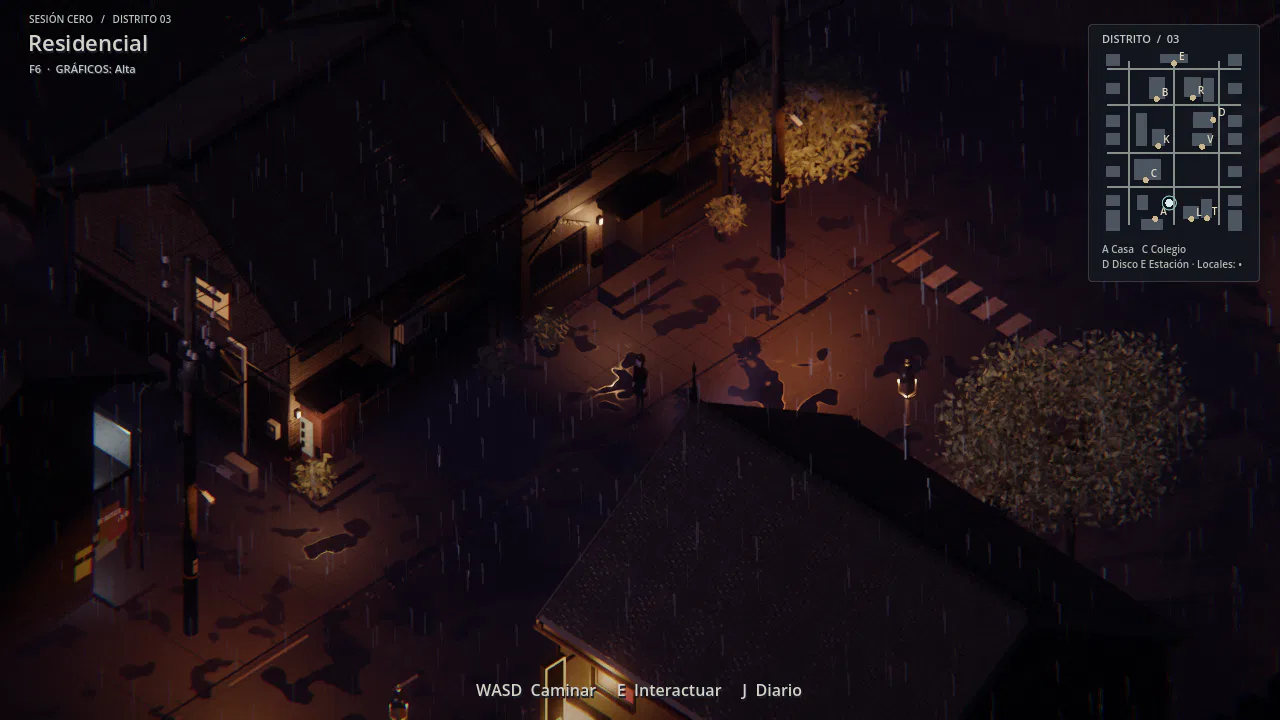
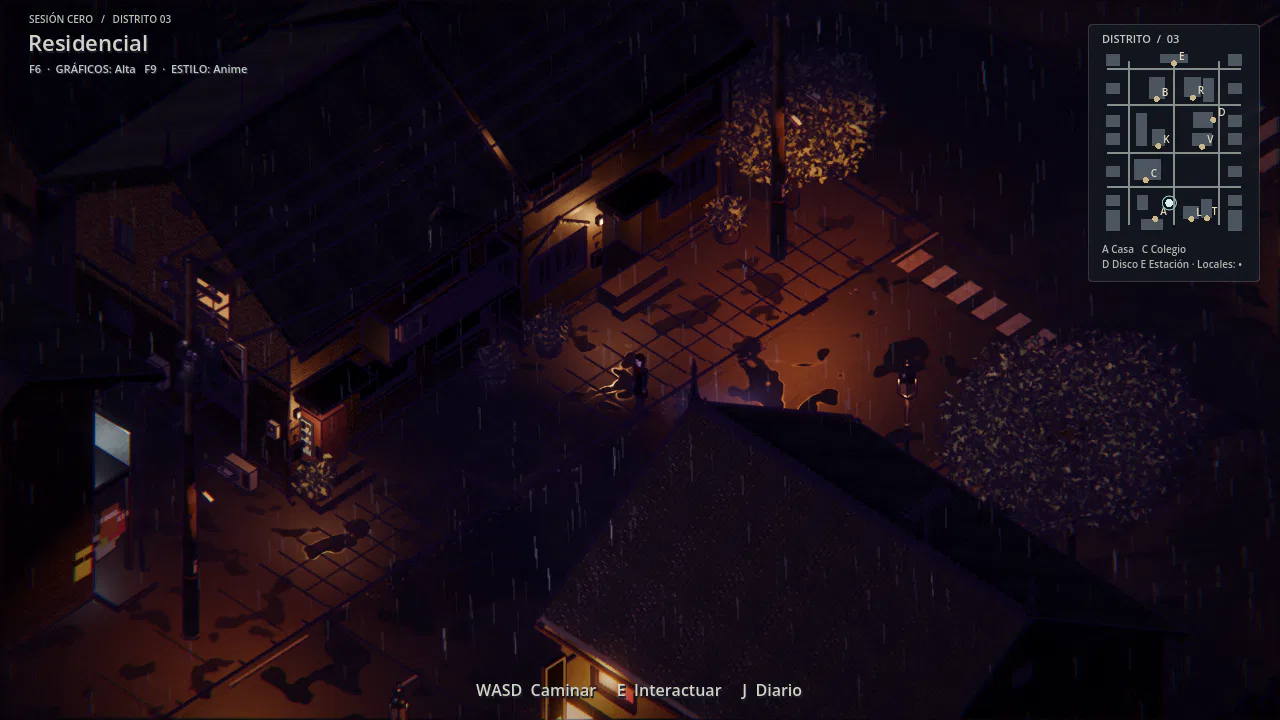
feat(site): the download page shows the game as it looks now
New captures in the anime look: a conversation with Ryoko in the visual-novel window,
a café floating over the Indara net, the arcade, the district, home with the guide and
the terminal. The izakaya goes (it looked like the café).

The texts in them are real: tools/landing_inputs.py plays the start of the prologue in
a throwaway world with the server's own code and writes the oscilloscope screen and
Ryoko's first reply that capture_landing.gd shows.

diff --git a/deploy/vps/web/index.html b/deploy/vps/web/index.html
@@ -76,20 +76,27 @@
         <figcaption>El terminal es el corazón del juego. Aquí, la Capa 01: leer con un osciloscopio la señal de un cable
           cortado. Cada capa enseña una parte de cómo funciona una red de verdad.</figcaption>
       </figure>
+      <figure class="wide">
+        <img src="/img/ryoko.webp" width="1280" height="720" loading="lazy"
+             alt="Una conversación con Ryoko en el club: su retrato anime a la izquierda, lo que dice abajo y las respuestas a la derecha.">
+        <figcaption>Las conversaciones, como en una novela visual: cada personaje con su cara y su forma de hablar. Los
+          vecinos contestan con sus propias palabras y recuerdan lo que les cuentas.</figcaption>
+      </figure>
+      <figure>
+        <img src="/img/red-indara.webp" width="1280" height="720" loading="lazy"
+             alt="Un café flotando en la oscuridad sobre una red de hilos de luz, con joyas brillantes y un pulso rosa que llega por un hilo.">
+        <figcaption>Fuera de cada edificio, la red de Indara: cada joya es otra zona de la ciudad y brilla si hay
+          gente; cada pulso es alguien que habla o que llega.</figcaption>
+      </figure>
       <figure>
         <img src="/img/barrio-noche.webp" width="1280" height="720" loading="lazy"
              alt="Una calle residencial de noche, bajo la lluvia, con farolas y el mapa del barrio arriba a la derecha.">
-        <figcaption>Un barrio que vive día y noche. Sus vecinos recuerdan lo que les cuentas.</figcaption>
+        <figcaption>Un barrio que vive día y noche, siempre encendido.</figcaption>
       </figure>
       <figure>
         <img src="/img/recreativos.webp" width="1280" height="720" loading="lazy"
-             alt="El salón de recreativos por dentro, con máquinas iluminadas y neones.">
+             alt="El salón de recreativos por dentro, con máquinas iluminadas y neones, sobre la red de Indara.">
         <figcaption>El salón de recreativos, con sus torneos y su clasificación.</figcaption>
-      </figure>
-      <figure>
-        <img src="/img/izakaya.webp" width="1280" height="720" loading="lazy"
-             alt="Una izakaya por dentro, con lámparas de papel y gente en las mesas.">
-        <figcaption>Habla con quien quieras: los personajes contestan con sus propias palabras.</figcaption>
       </figure>
       <figure>
         <img src="/img/guia.webp" width="1280" height="720" loading="lazy"

diff --git a/tools/landing_inputs.py b/tools/landing_inputs.py
@@ -1,0 +1,61 @@
+"""Real game text for the download page's captures (client/tools/capture_landing.gd).
+
+    python tools/landing_inputs.py <folder>
+
+Plays a new player through the start of the prologue in a throwaway world, with the
+server's own code and no AI, and writes:
+- session.json: the oscilloscope of Capa 01 in the school's cabinet, as the shell prints it;
+- ryoko.json: Ryoko's first reply in the club (speaker, text, mood, choices).
+"""
+import json
+import os
+import sys
+import tempfile
+from pathlib import Path
+
+ROOT = Path(__file__).resolve().parents[1]
+
+
+def main(argv=None) -> int:
+    folder = Path((argv or sys.argv[1:])[0])
+    folder.mkdir(parents=True, exist_ok=True)
+    # SQLite may still hold the throwaway world open on Windows when the folder goes.
+    with tempfile.TemporaryDirectory(ignore_cleanup_errors=True) as scratch:
+        os.environ["LAIN_WORLD_DB"] = str(Path(scratch) / "landing.db")
+        for flag in ("LAIN_LAYER_ONE", "LAIN_LAYER_THREE", "LAIN_PROLOGUE_ENABLED", "LAIN_CITY_RESIDENTS_ENABLED",
+                     "LAIN_CORPORATION"):
+            os.environ[flag] = "1"
+        os.environ["LAIN_LLM_ENABLED"] = "0"
+        sys.path.insert(0, str(ROOT))
+        from server.world_core import database, layer_one, layer_three
+        from server.world_core.prologue import submit_terminal_command, talk_to_prologue_npc
+        from server.world_core.simulation import Simulation
+        from server.world_core.wired import process_wired_message_acknowledgement
+        from tests.test_chapter_one import move  # the same walk through the city as the tests
+        from tests.test_layer_three import PLAYER
+
+        database.initialize_database()
+        sim = Simulation()
+        move(sim, "SCHOOL_LAB")
+        talk_to_prologue_npc(PLAYER, "PROFESSOR", sim.minute, "ASK_STUDENT")
+        move(sim, "NIGHTCLUB")
+        ryoko = {"INTRO": talk_to_prologue_npc(PLAYER, "RYOKO", sim.minute, "INTRO")}
+        talk_to_prologue_npc(PLAYER, "RYOKO", sim.minute, "ASK_ADDRESS")
+        move(sim, "APARTMENT")
+        submit_terminal_command(PLAYER, "telnet wired 23", sim.minute)
+        process_wired_message_acknowledgement("MSG_BOOTSTRAP_001", PLAYER, sim.minute)
+        move(sim, "SCHOOL_LAB")
+        screens = []
+        for pair in ("naranja", "verde"):
+            result = layer_three.run_shell(PLAYER, layer_one.CABINET, "/", f"scope {pair}", sim.minute)
+            screens.append({key: result[key] for key in ("output", "hostname", "cwd")} | {"command": f"scope {pair}"})
+        # The pair the cut cable's signal is on: the one with a busy line.
+        session = [max(screens, key=lambda screen: screen["output"].count("¯"))]
+        (folder / "session.json").write_text(json.dumps(session, ensure_ascii=False, indent=1), encoding="utf-8")
+        (folder / "ryoko.json").write_text(json.dumps(ryoko, ensure_ascii=False, indent=1), encoding="utf-8")
+    print(folder / "session.json", folder / "ryoko.json")
+    return 0
+
+
+if __name__ == "__main__":
+    raise SystemExit(main())

diff --git a/tests/test_landing_inputs.py b/tests/test_landing_inputs.py
@@ -1,0 +1,18 @@
+"""The download page shows real game text: tools/landing_inputs.py plays it with the server's code."""
+import json
+
+from tools import landing_inputs
+
+FLAGS = ("LAIN_WORLD_DB", "LAIN_LAYER_ONE", "LAIN_LAYER_THREE", "LAIN_PROLOGUE_ENABLED",
+         "LAIN_CITY_RESIDENTS_ENABLED", "LAIN_CORPORATION", "LAIN_LLM_ENABLED")
+
+
+def test_the_oscilloscope_and_ryokos_first_words_come_from_the_game(monkeypatch, tmp_path):
+    for flag in FLAGS:  # put back after the test whatever the tool sets
+        monkeypatch.setenv(flag, "")
+    assert landing_inputs.main([str(tmp_path)]) == 0
+    session = json.loads((tmp_path / "session.json").read_text(encoding="utf-8"))
+    assert session[0]["command"].startswith("scope ") and "osciloscopio" in session[0]["output"]
+    assert session[0]["output"].count("¯") > 40 and session[0]["hostname"]
+    ryoko = json.loads((tmp_path / "ryoko.json").read_text(encoding="utf-8"))["INTRO"]
+    assert ryoko["speaker"] == "Ryoko" and "profesor" in ryoko["text"] and len(ryoko["choices"]) >= 3

diff --git a/SERVIDOR.md b/SERVIDOR.md
@@ -18,7 +18,8 @@ Todo se maneja desde el PC con `vps.ps1`.
 
 1. Pásales la web del servidor: **https://178-105-103-4.sslip.io**. Tiene el
    botón de descarga y capturas del juego (`deploy/vps/web`; las imágenes se
-   rehacen con `client/tools/capture_landing.gd`). El enlace directo, que siempre baja la última versión,
+   rehacen con `client/tools/capture_landing.gd`, y los textos reales que enseñan con
+   `tools/landing_inputs.py`). El enlace directo, que siempre baja la última versión,
    es `https://github.com/webtilians/lain/releases/latest/download/LAIN-Windows.zip`.
 2. El registro está **abierto**: cualquiera con el juego se crea una cuenta
    con nombre y contraseña, sin código ni escribirte. Para que nadie llene el
